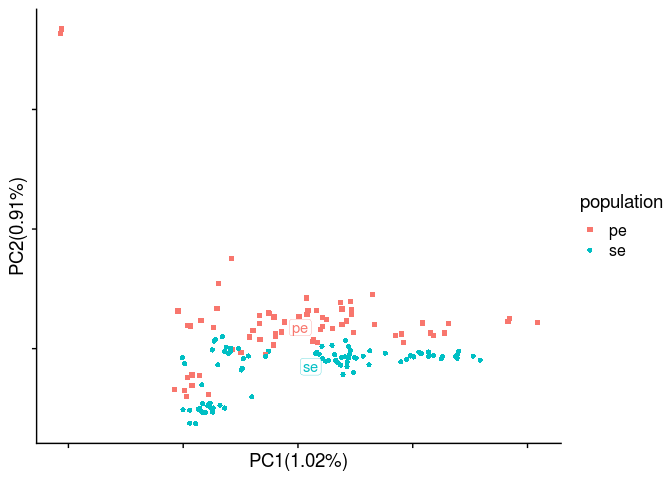
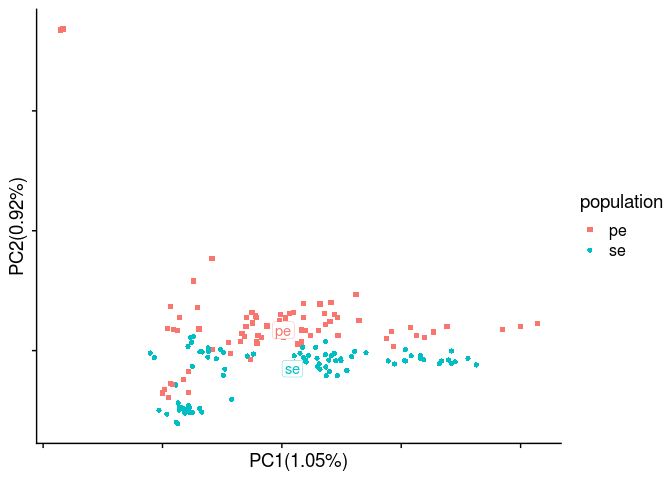
changed minMaf filter to 0.05 for "Before" PCA

diff --git a/markdown/pipeline.md b/markdown/pipeline.md
@@ -352,7 +352,7 @@ nohup /workdir/programs/angsd0.931/angsd/angsd \
 -anc /workdir/cod/reference_seqs/gadMor3.fasta \
 -out angsd/bam_list_realigned \
 -GL 1 -doGlf 2 -doMaf 1 -doMajorMinor 3 -doCounts 1 -doDepth 1 -dumpCounts 1 \
--P 16 -setMinDepth 2 -setMaxDepth 661 -minInd 2 -minQ 20 -minMapQ 20 -minMaf 0.01 \
+-P 16 -setMinDepth 2 -setMaxDepth 661 -minInd 2 -minQ 20 -minMapQ 20 -minMaf 0.05 \
 -doIBS 2 -makematrix 1 -doCov 1 \
 -sites /workdir/cod/greenland-cod/angsd/global_snp_list_bam_list_realigned_mincov_contamination_filtered_mindp151_maxdp661_minind102_minq20_downsampled_unlinked.txt \
 -rf /workdir/cod/greenland-cod/angsd/global_snp_list_bam_list_realigned_mincov_contamination_filtered_mindp151_maxdp661_minind102_minq20_downsampled_unlinked.chrs \
